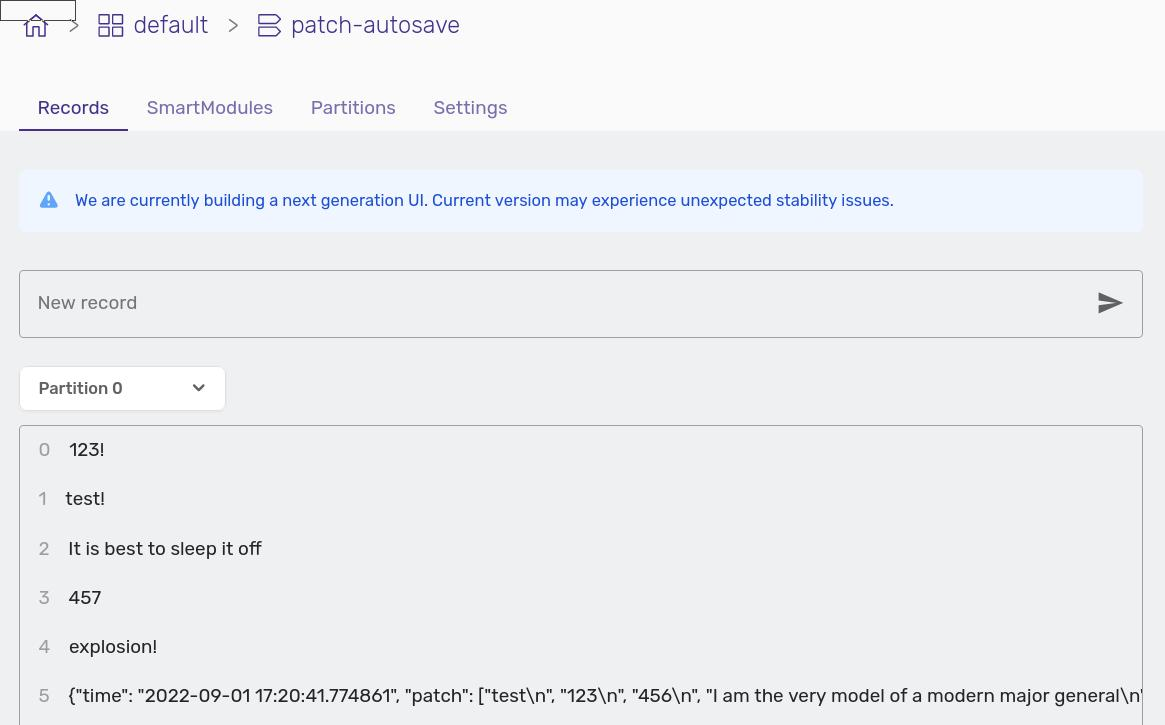
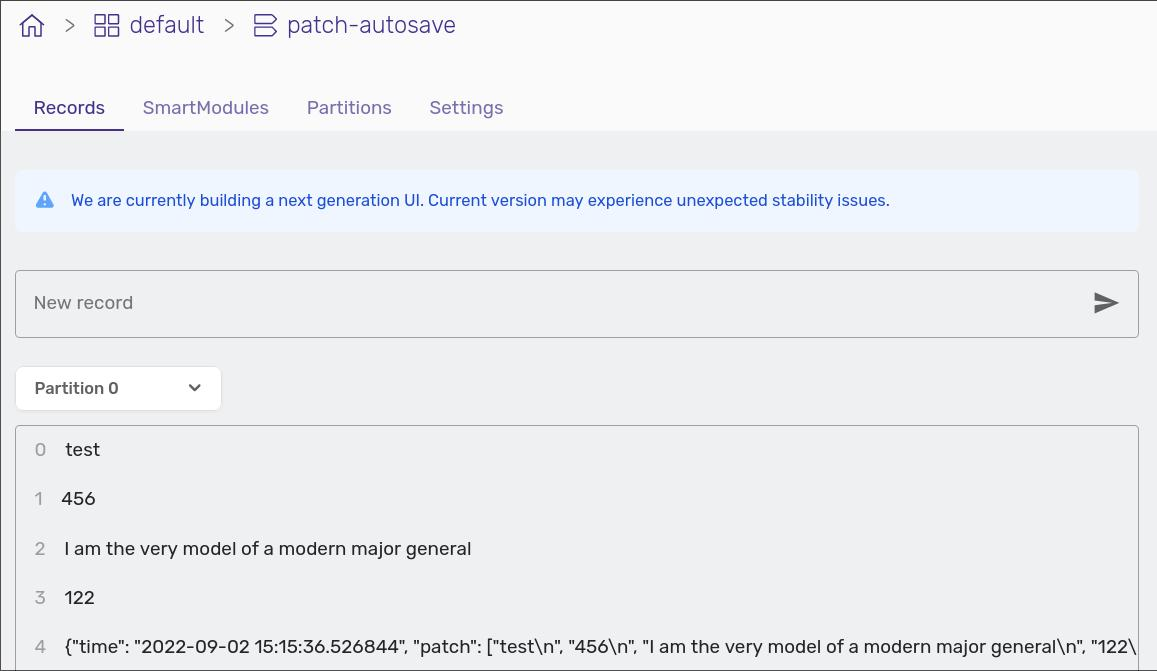
Fixed example to be consistent with what is seen
added bash to list of jobs for the check_examples.yml. Please don't
cause issues this time

diff --git a/content/docs/tutorials/cloud-tutorial.md b/content/docs/tutorials/cloud-tutorial.md
@@ -255,7 +255,7 @@ Second we need to create the test file we want to save and retrieve from the sys
 
 %copy first-line%
 ```bash
-$ echo "test\n123\n456\nI am the very model of a modern major general" > test
+$ echo "test\n456\nI am the very model of a modern major general\n123" > test
 ```
 
 Now, let us see if it works!
